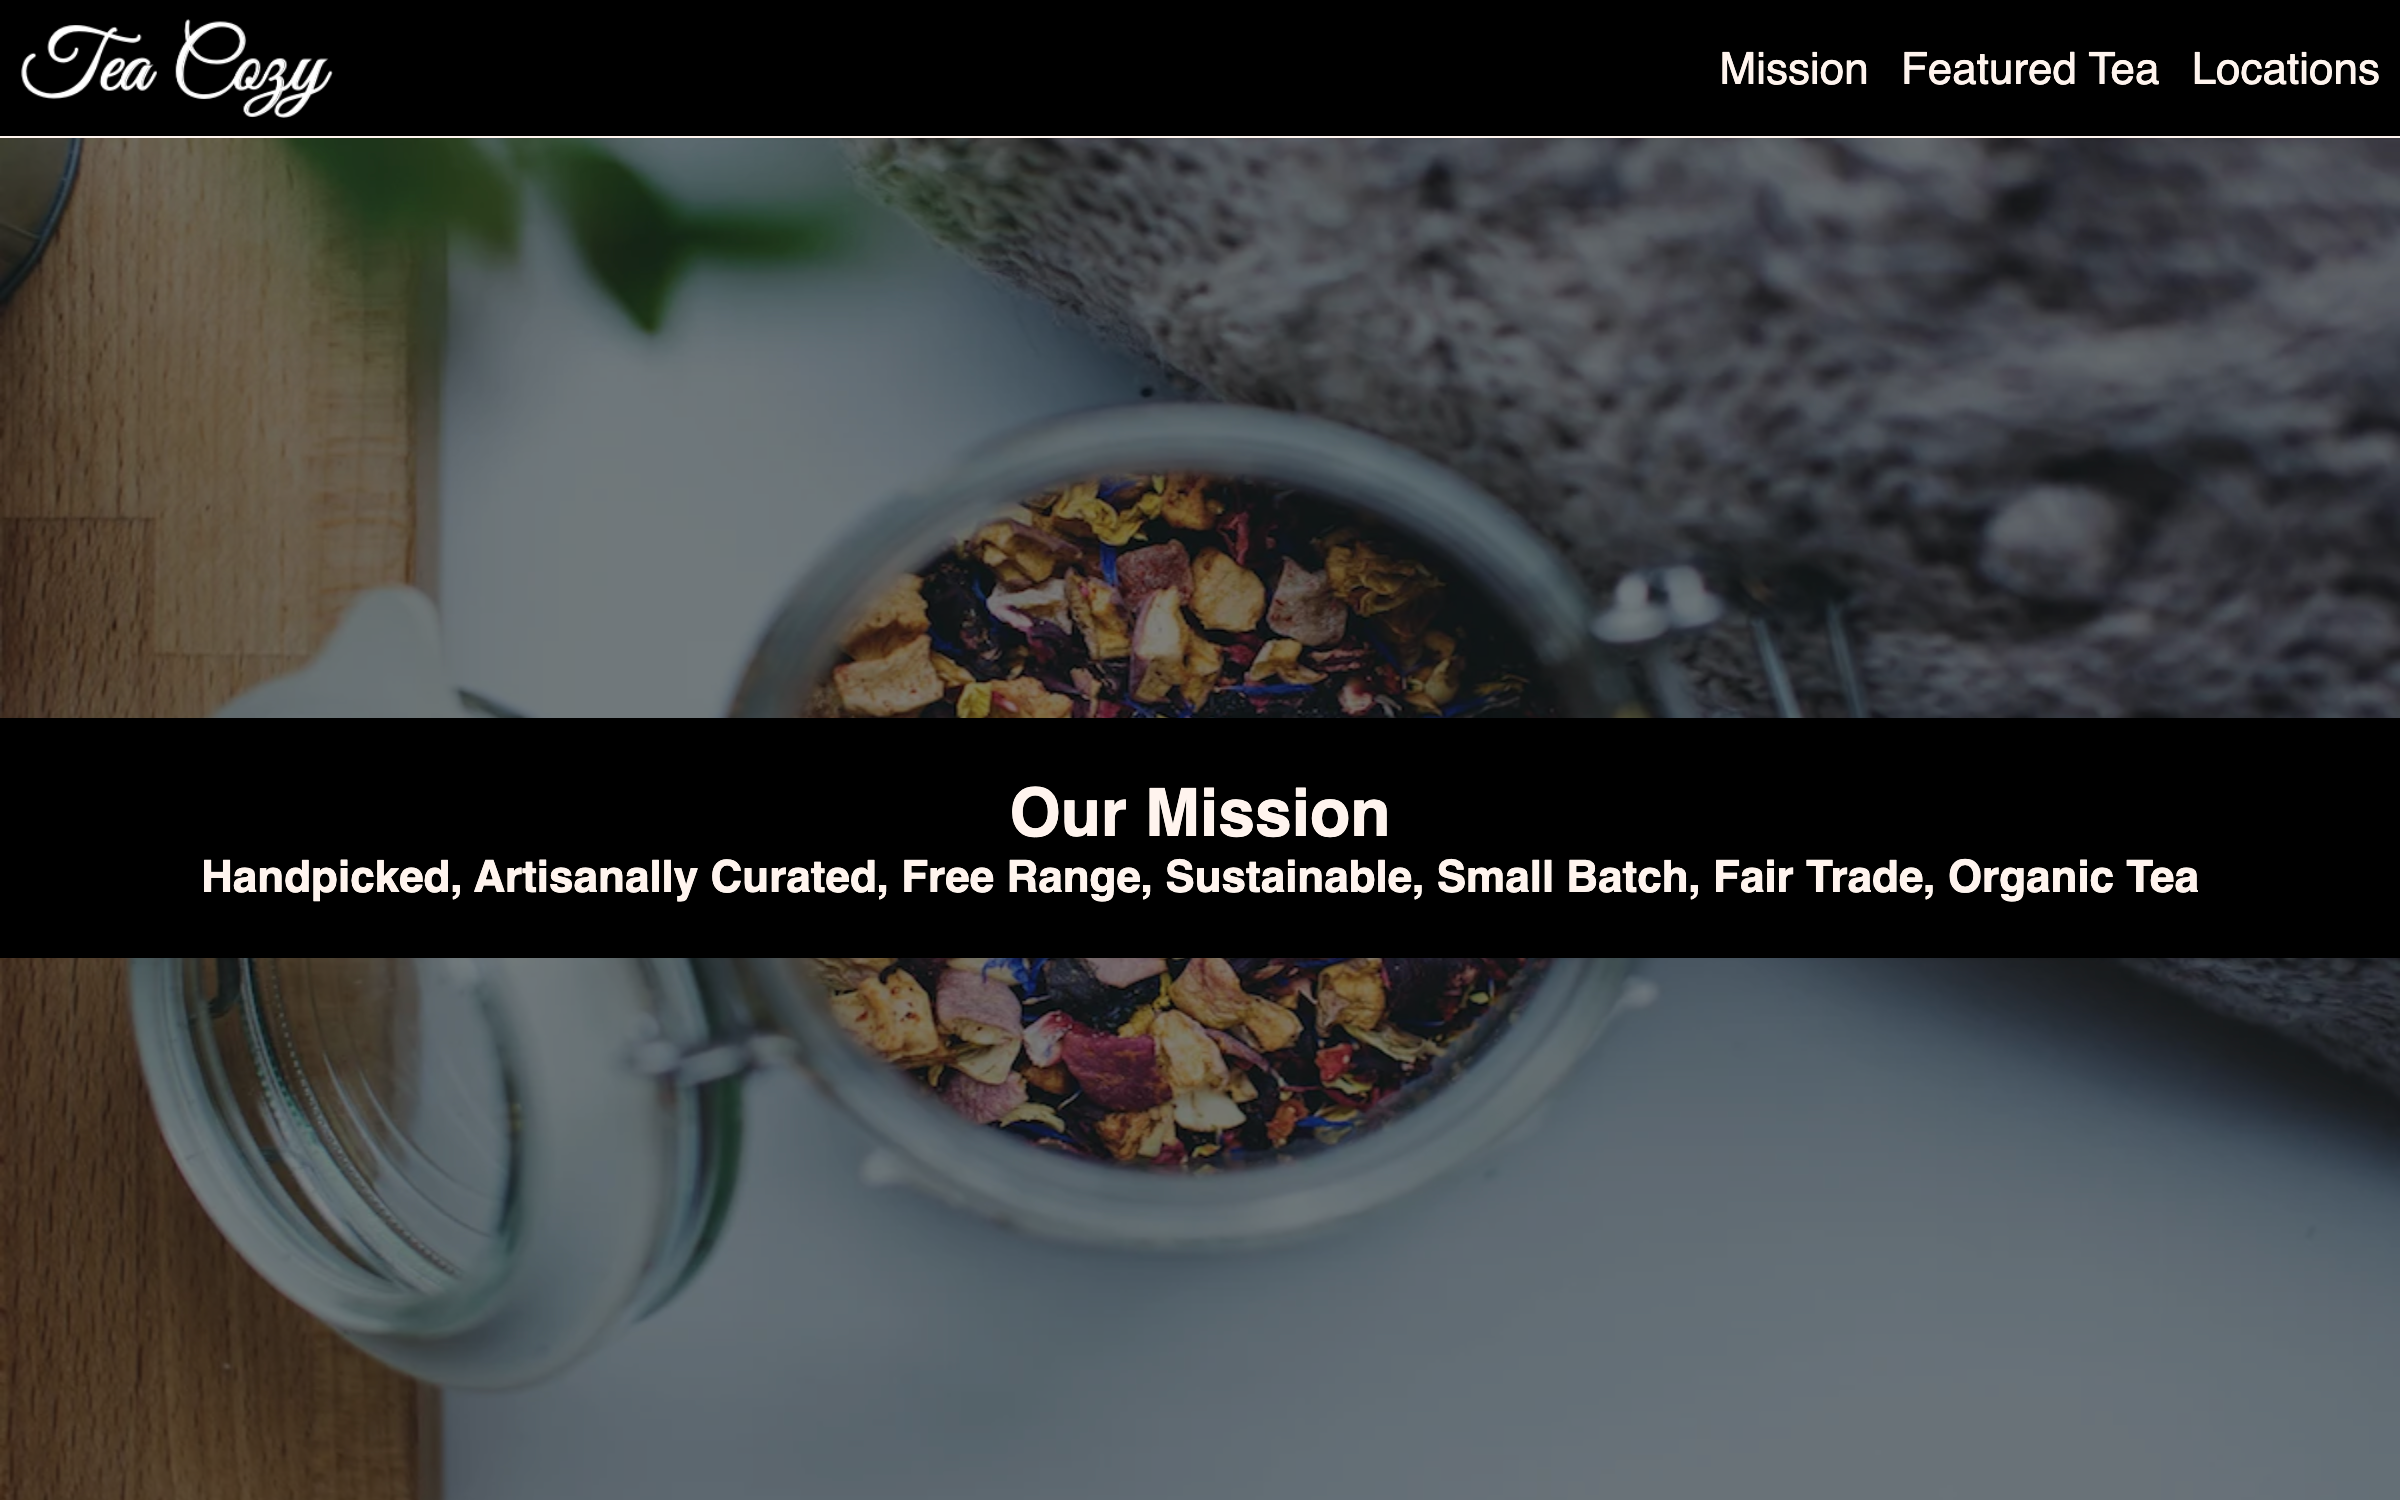
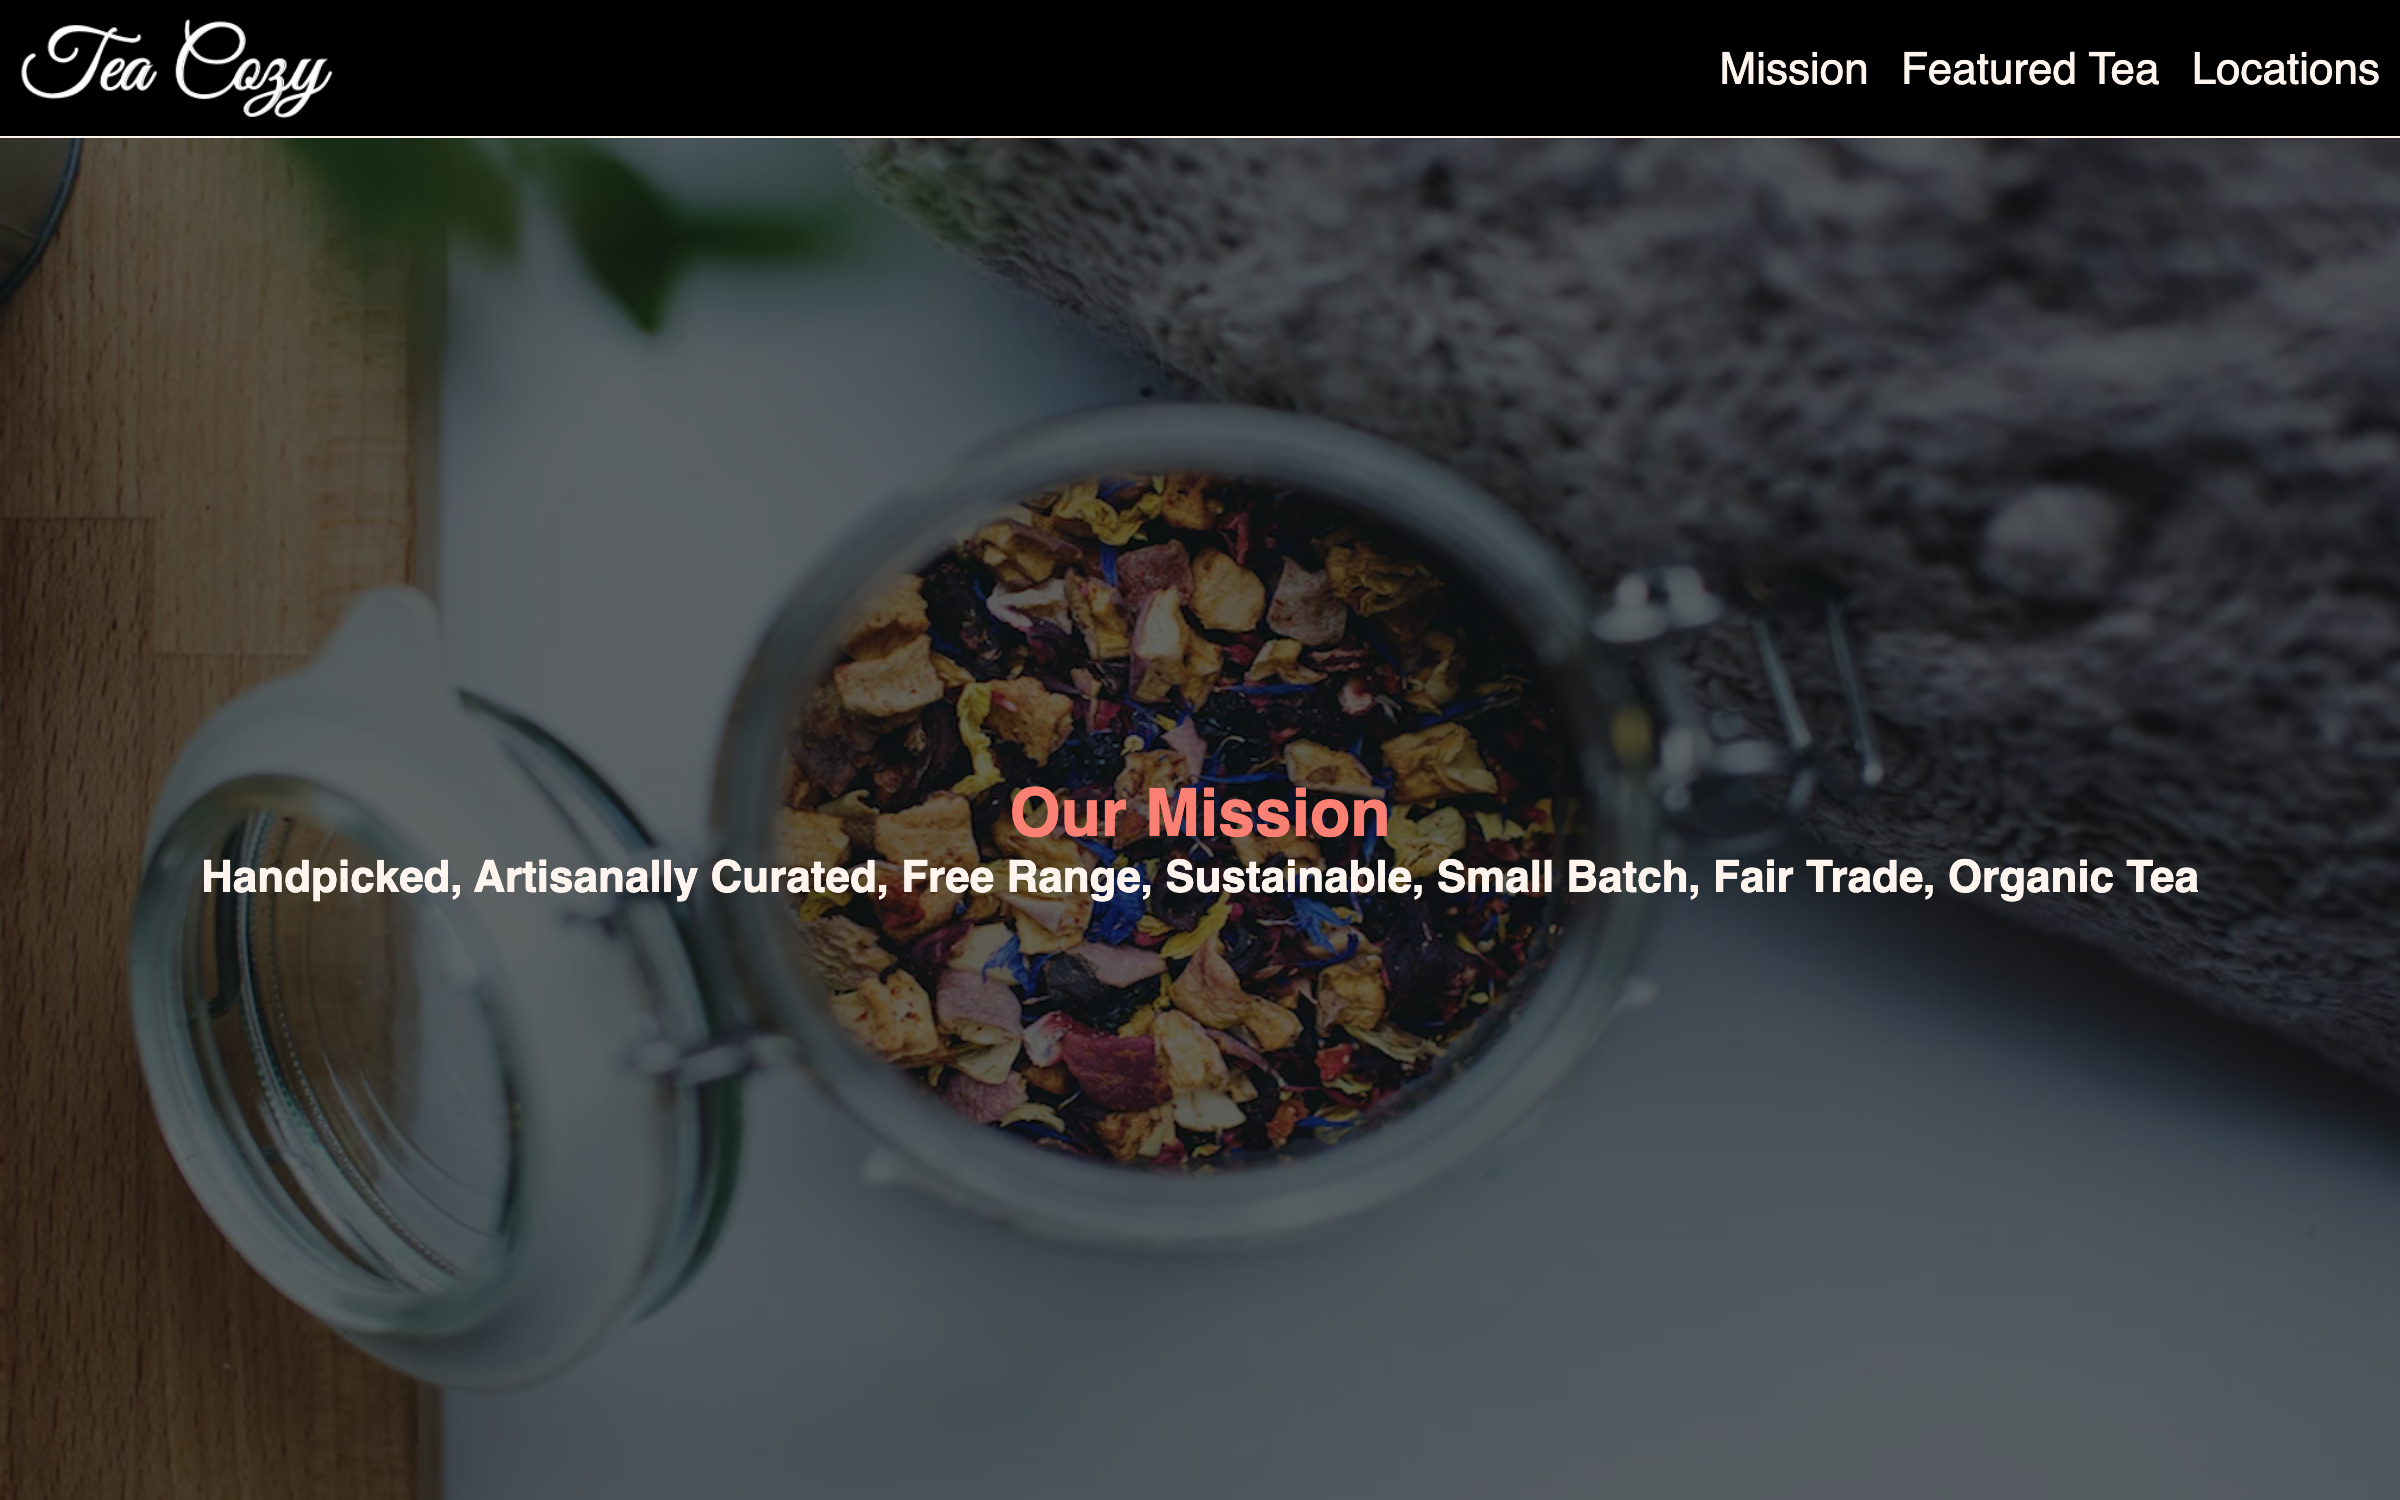
Update several projects

diff --git a/projects/web-design/web-design.html b/projects/web-design/web-design.html
@@ -20,52 +20,68 @@
     <link rel="stylesheet" href="./web-design.css">
   </head>
   <body>
-    <div class="background">
-        <div class="screen"></div>
-        <img src="./img/wireframe.png" class="wireframe" alt="Website wireframe">
-    </div>
-    <div class="foreground">
+    <div class="container">
         <section id="color">
             <div class="swatches">
                 <div class="container color1">
                     <p>Black</p>
                     <p class="white">White</p>
                 </div>
+                <div class="container code hidden-x">
+                    <p>#B4DDD5</p>
+                    <p>RGB(180, 221, 213)</p>
+                </div>
                 <div class="container color2">
                     <p>Black</p>
                     <p class="white">White</p>
+                </div>
+                <div class="container code hidden-x">
+                    <p>#F68330</p>
+                    <p>RGB(246, 131, 48)</p>
                 </div>
                 <div class="container color3">
                     <p>Black</p>
                     <p class="white">White</p>
                 </div>
+                <div class="container code hidden-x">
+                    <p>#F7C412</p>
+                    <p>RGB(247, 196, 18)</p>
+                </div>
                 <div class="container color4">
                     <p>Black</p>
                     <p class="white">White</p>
+                </div>
+                <div class="container code hidden-x">
+                    <p>#033756</p>
+                    <p>RGB(3, 55, 86)</p>
                 </div>
                 <div class="container color5">
                     <p>Black</p>
                     <p class="white">White</p>
                 </div>
+                <div class="container code hidden-x">
+                    <p>#08143A</p>
+                    <p>RGB(8, 20, 58)</p>
+                </div>
             </div>
             <div class="codes">
-                <div class="container code">
+                <div class="container code hidden-y">
                     <p>#B4DDD5</p>
                     <p>RGB(180, 221, 213)</p>
                 </div>
-                <div class="container code">
+                <div class="container code hidden-y">
                     <p>#F68330</p>
                     <p>RGB(246, 131, 48)</p>
                 </div>
-                <div class="container code">
+                <div class="container code hidden-y">
                     <p>#F7C412</p>
                     <p>RGB(247, 196, 18)</p>
                 </div>
-                <div class="container code">
+                <div class="container code hidden-y">
                     <p>#033756</p>
                     <p>RGB(3, 55, 86)</p>
                 </div>
-                <div class="container code">
+                <div class="container code hidden-y">
                     <p>#08143A</p>
                     <p>RGB(8, 20, 58)</p>
                 </div>

diff --git a/projects/web-design/web-design.css b/projects/web-design/web-design.css
@@ -5,33 +5,15 @@
 }
   
 html {
+    height: 100%;
+    display: flex;
+    justify-content: center;
+    align-items: center;
     font-size: 16px;
     color: rgb(0, 0, 0);
     line-height: 1.5;
-}
-
-/* Layout styles */
-.background {
-    width: 100%;
-    position: relative;
-}
-
-.screen {
-    height: 100%;
-    width: 100%;
-    background-color: rgba(0, 0, 0, .1);
-    position: absolute;
-}
-
-.wireframe {
-    width: 100%;
-}
-
-.foreground {
-    position: fixed;
-    top: 50%;
-    left: 50%;
-    transform: translate(-50%, -50%);
+    background-color: rgb(223, 223, 223
+    );
 }
 
 /* Color styles */
@@ -95,6 +77,13 @@ html {
     font-size: .75rem;
 }
 
+.swatches .hidden-x {
+    height: unset;
+    display: none;
+    padding: .5rem;
+    background-color: rgb(255, 255, 255);
+}
+
 /* Font styles */
 #font {
     margin-top: 1rem;
@@ -139,4 +128,79 @@ h4 {
 
 .italic {
     font-style: italic;
+}
+
+@media only screen and (orientation: portrait) {
+    html {
+        height: fit-content;
+        margin: 0 2rem;
+    }
+
+    #color {
+        height: 100vh;
+        display: flex;
+        flex-direction: column;
+        justify-content: center;
+    }
+
+    .swatches {
+        flex-direction: column;
+        justify-content: center;
+        align-items: center;
+    }
+
+    .swatches .container {
+        height: initial;
+        width: 100%;
+        margin: .2rem 0;
+        padding: .5rem;
+    }
+
+    .swatches .container:nth-child(even) {
+        margin-bottom: 1rem;
+    }
+
+    .swatches .container:last-child {
+        margin-bottom: 0;
+    }
+
+    .swatches .hidden-x {
+        display: inherit;
+    }
+
+    .hidden-y {
+        display: none;
+    }
+
+    #font {
+        height: 100vh;
+        display: flex;
+        flex-direction: column;
+        justify-content: center;
+        border: none;
+        background-color: initial;
+    }
+
+    .row {
+        flex-direction: column;
+        margin-bottom: 1rem;
+    }
+
+    .row:last-child {
+        margin-bottom: 0;
+    }
+
+    .headings, .paragraphs {
+        border: 1px solid rgb(0, 0, 0);
+        padding: .5rem;
+        background-color: rgb(255, 255, 255);
+    }
+
+    .headings {
+        border-bottom: none;
+    }
+
+    .paragraphs {
+        border-top: none;
+    }
 }

diff --git a/projects/tea-cozy/tea-cozy.css b/projects/tea-cozy/tea-cozy.css
@@ -26,6 +26,10 @@ nav {
     background-color: black;
 }
 
+h2 {
+    color: salmon;
+}
+
 .logo {
     height: 50px;
 }
@@ -57,7 +61,7 @@ nav {
 .mission-background {
     height: 700px;
     width: 1200px;
-    opacity: 0.5;
+    opacity: 0.4;
 }
 
 .mission-blurb {
@@ -68,7 +72,6 @@ nav {
     display: flex;
     flex-direction: column;
     justify-content: center;
-    background-color: black;
 }
 
 #featured {
